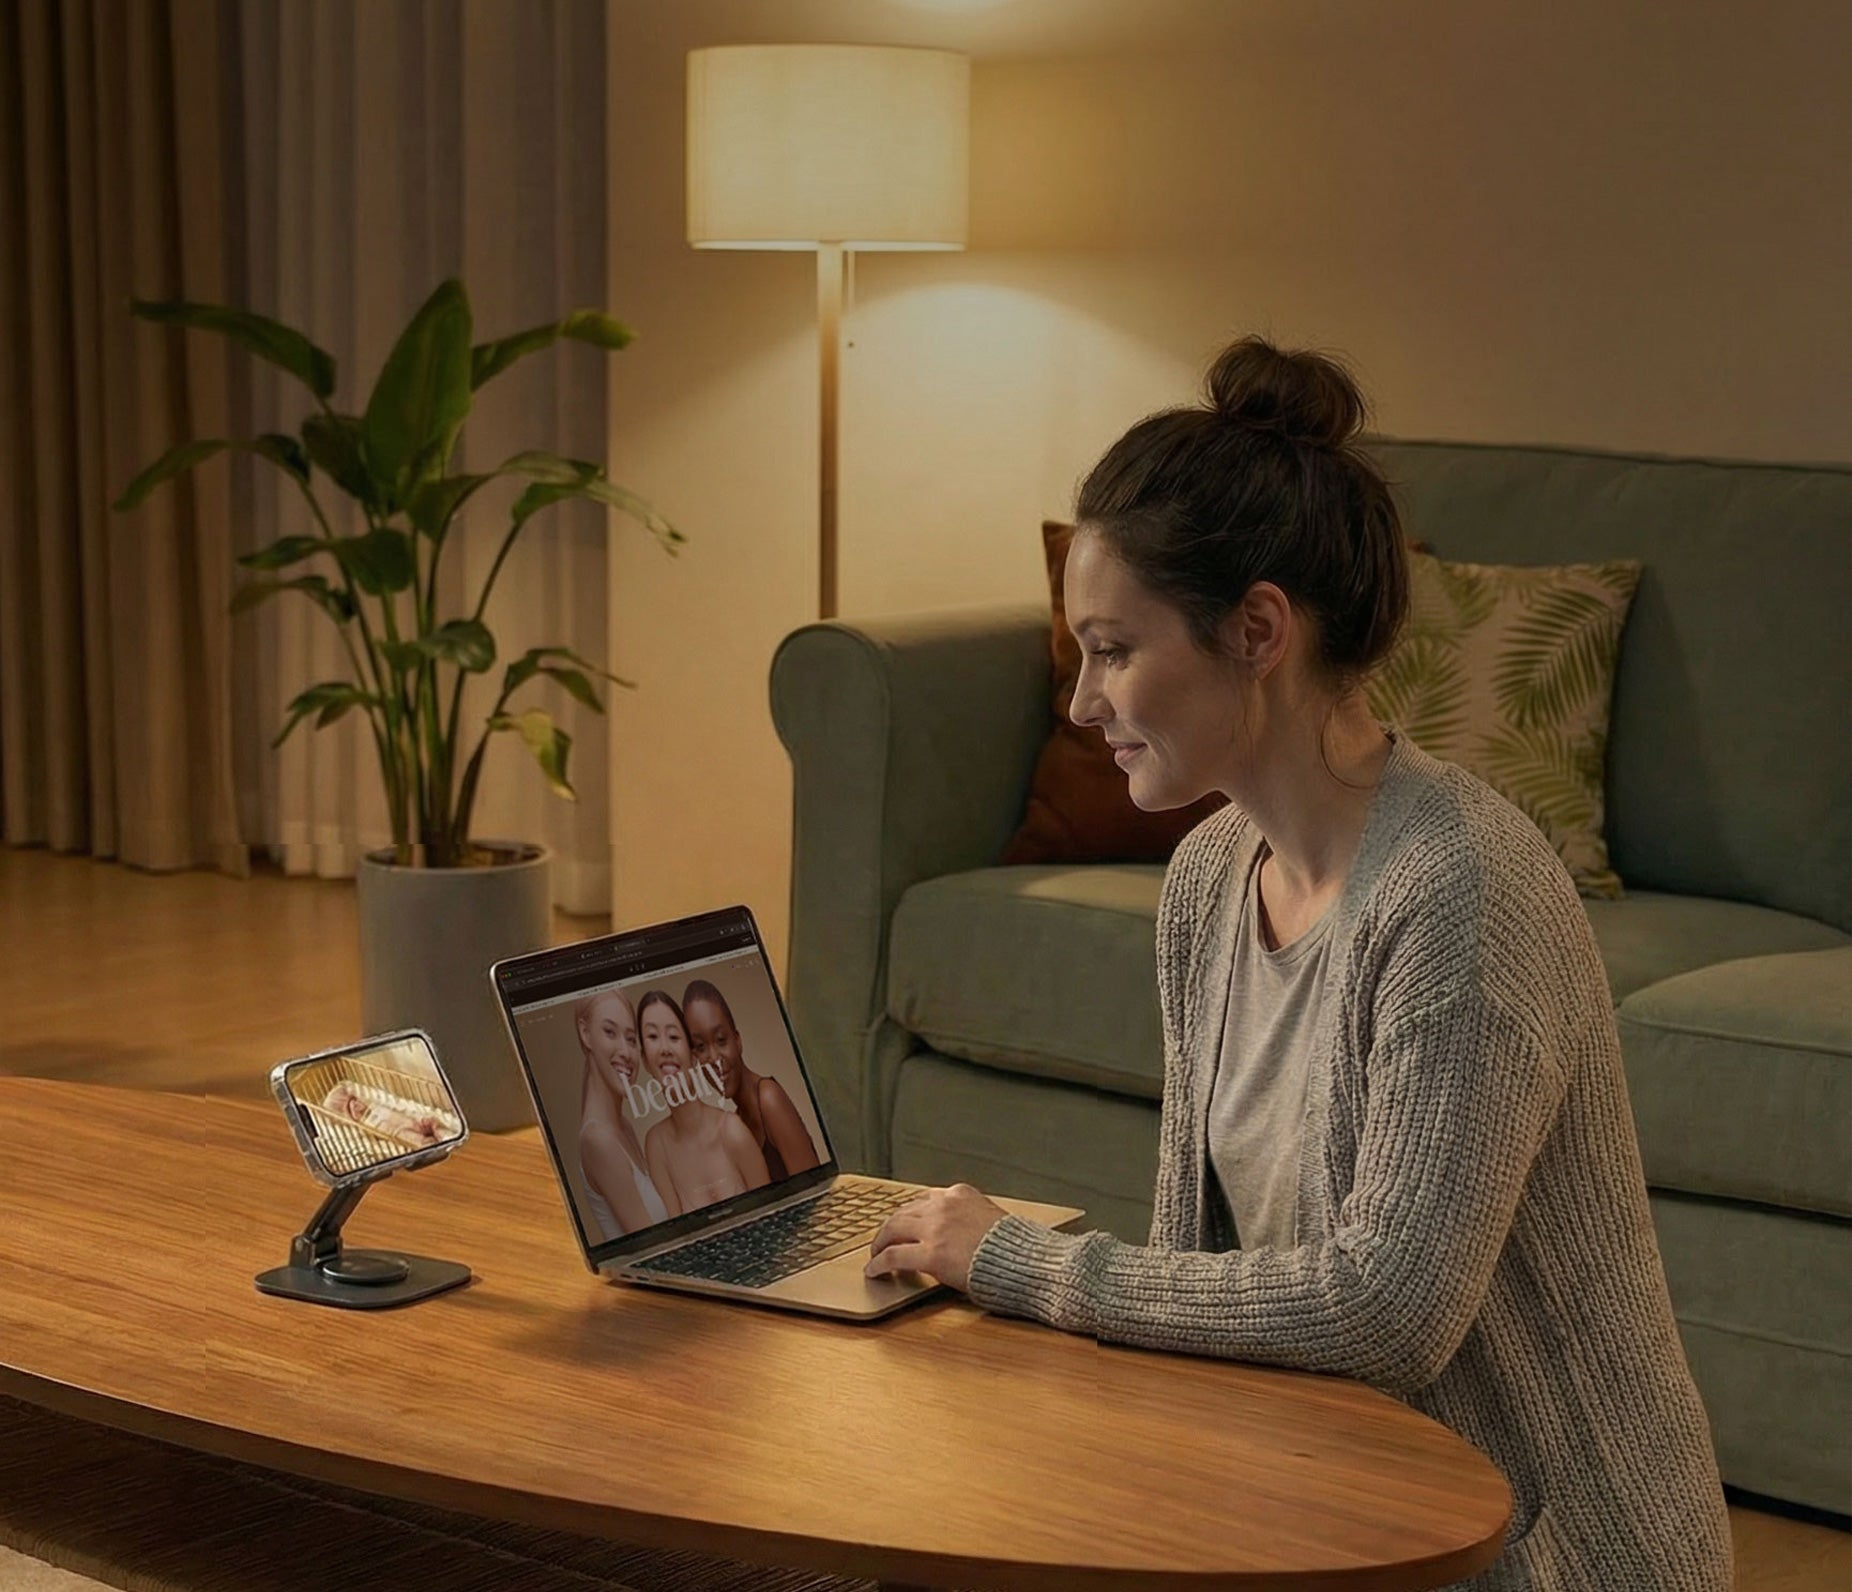
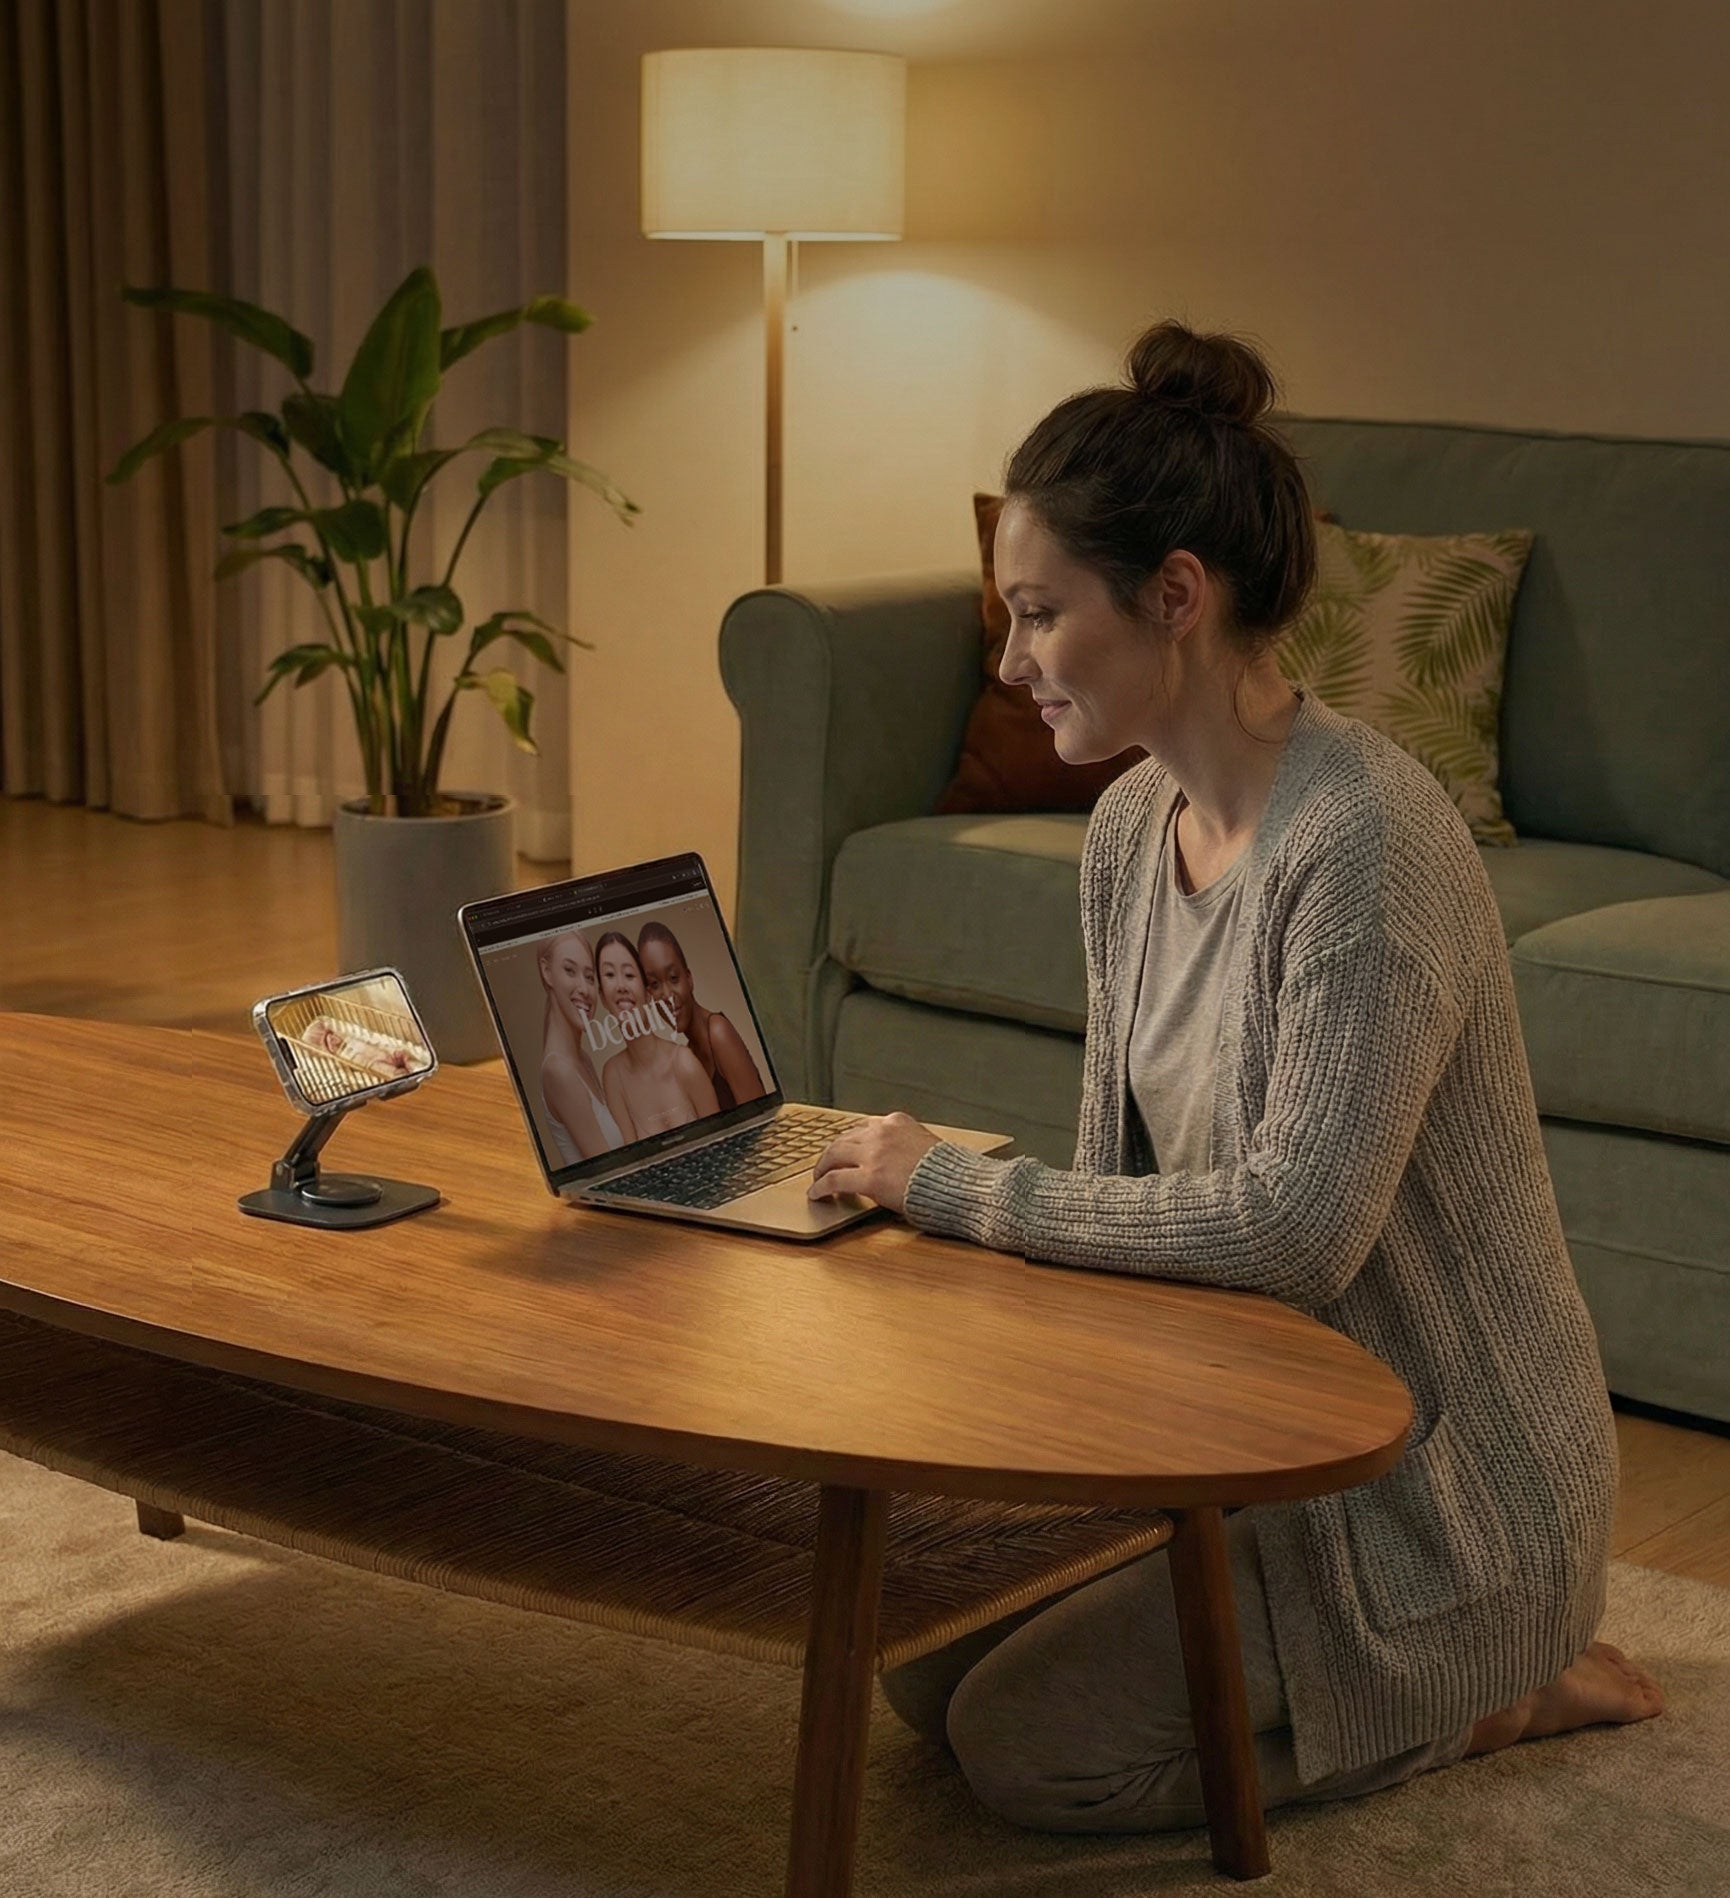
Home Page

diff --git a/components/ShoppableRoomSection.module.css b/components/ShoppableRoomSection.module.css
@@ -1,7 +1,7 @@
 .section {
   width: 100%;
   background: linear-gradient(180deg, #342f2a 0%, #24201c 100%);
-  padding: 60px 0 0;
+  padding: 0;
   color: #ffffff;
   overflow: hidden;
   position: relative;
@@ -11,44 +11,6 @@
   width: 100%;
   max-width: 100%;
   margin: 0 auto;
-}
-
-/* Header Typography */
-.header {
-  text-align: center;
-  margin-bottom: 36px;
-  padding: 0 20px;
-}
-
-.eyebrow {
-  font-size: 13px;
-  font-weight: 500;
-  letter-spacing: 0.6px;
-  color: rgba(255, 255, 255, 0.75);
-  margin-bottom: 10px;
-  text-transform: none;
-  font-family: var(--font-outfit, sans-serif);
-}
-
-.title {
-  font-size: clamp(34px, 4.8vw, 56px);
-  font-weight: 700;
-  color: #ffffff;
-  line-height: 1.15;
-  letter-spacing: -0.5px;
-  font-family: var(--font-syne, sans-serif);
-}
-
-.mobileBreak {
-  display: none;
-}
-
-.highlightBronze {
-  color: #d8aa78;
-}
-
-.highlightBlue {
-  color: #257bf3;
 }
 
 /* Visual Wrapper - Full Screen Width */
@@ -63,6 +25,48 @@
   position: relative;
   width: 100%;
   overflow: visible;
+}
+
+/* Header Text Overlayed on Top Center - Compact, Single Line, No Room Overlap */
+.header {
+  position: absolute;
+  top: 14px;
+  left: 50%;
+  transform: translateX(-50%);
+  z-index: 15;
+  text-align: center;
+  width: auto;
+  pointer-events: none;
+  white-space: nowrap;
+}
+
+.eyebrow {
+  font-size: 11px;
+  font-weight: 500;
+  letter-spacing: 0.5px;
+  color: rgba(255, 255, 255, 0.75);
+  margin-bottom: 3px;
+  font-family: var(--font-outfit, sans-serif);
+  text-shadow: 0 2px 6px rgba(0, 0, 0, 0.7);
+}
+
+.title {
+  font-size: clamp(16px, 2.2vw, 32px);
+  font-weight: 700;
+  color: #ffffff;
+  line-height: 1.1;
+  letter-spacing: -0.02em;
+  font-family: var(--font-syne, sans-serif);
+  text-shadow: 0 3px 10px rgba(0, 0, 0, 0.7);
+  white-space: nowrap;
+}
+
+.highlightBronze {
+  color: #d8aa78;
+}
+
+.highlightBlue {
+  color: #257bf3;
 }
 
 .roomImage {
@@ -108,7 +112,7 @@
   transform: rotate(45deg);
 }
 
-/* Pulsing Ring Animation around Hotspot Pins */
+/* Pulsing Ring Animation */
 .pulseRing {
   position: absolute;
   top: -6px;
@@ -246,23 +250,26 @@
   background: #1963d2;
 }
 
-/* Responsive Breakpoints */
-@media (max-width: 768px) {
-  .section {
-    padding: 40px 0 0;
+/* Responsive */
+@media (max-width: 900px) {
+  .header {
+    top: 8px;
   }
 
-  .mobileBreak {
-    display: inline;
+  .eyebrow {
+    font-size: 10px;
+    margin-bottom: 1px;
   }
 
   .title {
-    font-size: 32px;
+    font-size: 18px;
   }
+}
 
+@media (max-width: 768px) {
   .hotspotPin {
-    width: 28px;
-    height: 28px;
+    width: 26px;
+    height: 26px;
   }
 
   .popoverCard {

diff --git a/components/ShoppableRoomSection.tsx b/components/ShoppableRoomSection.tsx
@@ -83,20 +83,20 @@ export default function ShoppableRoomSection() {
   return (
     <section className={styles.section}>
       <div className={styles.container} ref={containerRef}>
-        {/* Header Text */}
-        <div className={styles.header}>
-          <p className={styles.eyebrow}>Because Every Moment Matters</p>
-          <h2 className={styles.title}>
-            Designed for <br className={styles.mobileBreak} />
-            <span className={styles.highlightBronze}>Peaceful</span>{' '}
-            <span className={styles.highlightBlue}>Nights</span>
-          </h2>
-        </div>
-
         {/* Isometric Visual Container */}
         <div className={styles.visualWrapper}>
-          {/* Main 3D Home Cutaway Background Image (Cleaned without pre-baked camera circle) */}
           <div className={styles.imageContainer}>
+            {/* Header Text Overlayed cleanly on Top Center without overlapping room */}
+            <div className={styles.header}>
+              <p className={styles.eyebrow}>Because Every Moment Matters</p>
+              <h2 className={styles.title}>
+                Designed for{' '}
+                <span className={styles.highlightBronze}>Peaceful</span>{' '}
+                <span className={styles.highlightBlue}>Nights</span>
+              </h2>
+            </div>
+
+            {/* Main 3D Home Cutaway Background Image */}
             <Image
               src="/images/petit-shoppable-image-desktop.webp"
               alt="Designed for Peaceful Nights - Petit Smart Home Room Layout"
@@ -159,7 +159,6 @@ export default function ShoppableRoomSection() {
                 </Link>
               </div>
             )}
-
           </div>
         </div>
       </div>

diff --git a/components/FeatureCarousel.tsx b/components/FeatureCarousel.tsx
@@ -12,7 +12,7 @@ const featuresData = [
     fullTitle: 'Capture Every Precious Moment',
     description: "The little things become the biggest memories. Save milestones, create highlight clips, and share your baby's sweetest moments — effortlessly.",
     image: '/images/photo-1.jpg',
-    drawerImage: '/images/drawer-1.jpg',
+    drawerImage: '/images/photo-1.jpg',
     textWhite: true,
   },
   {
@@ -21,7 +21,7 @@ const featuresData = [
     fullTitle: 'Always Stay Connected',
     description: 'Stay close to your baby — wherever you are. Real-time monitoring, intelligent alerts, and privacy-first security help you feel connected without constantly checking.',
     image: '/images/iphone-cam.jpg',
-    drawerImage: '/images/drawer-2.jpg',
+    drawerImage: '/images/iphone-cam.jpg',
     textWhite: false,
   },
   {
